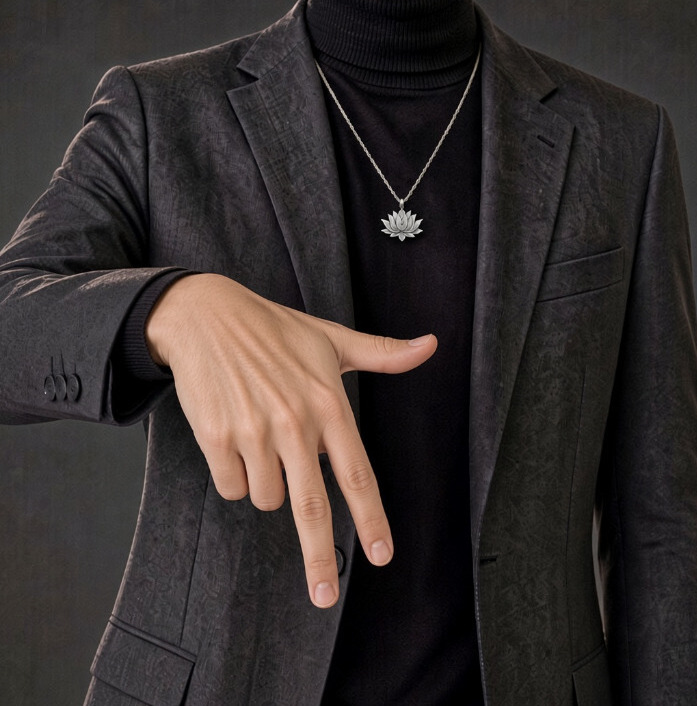
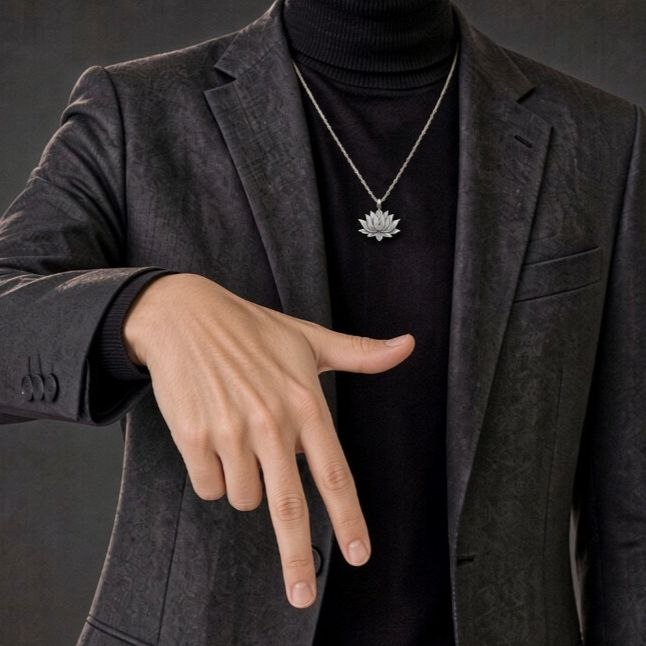
chore(team): update headshot photos for gilang and herdian (closes task-018)

diff --git a/tasks/018-update-team-member-headshot-photos.md b/tasks/018-update-team-member-headshot-photos.md
@@ -1,0 +1,23 @@
+---
+id: "018"
+title: "Update Team Member Headshot Photos"
+type: "chore"
+status: "done"
+created_at: "2026-11-14"
+updated_at: "2026-11-14"
+---
+
+# [Chore] Update Team Member Headshot Photos
+
+## Description
+Update team member headshot photos for leadership team in assets/team/.
+
+## Acceptance Criteria
+- [x] New team headshot images verified and tested
+- [x] Verification suite passes cleanly
+- [x] Container redeployed
+- [x] Changes committed with proper conventional commit referencing task-018
+- [x] Pushed to both devv and main branches
+
+## Context / Notes
+- Target files: assets/team/gilang.jpeg, assets/team/herdian.jpeg
